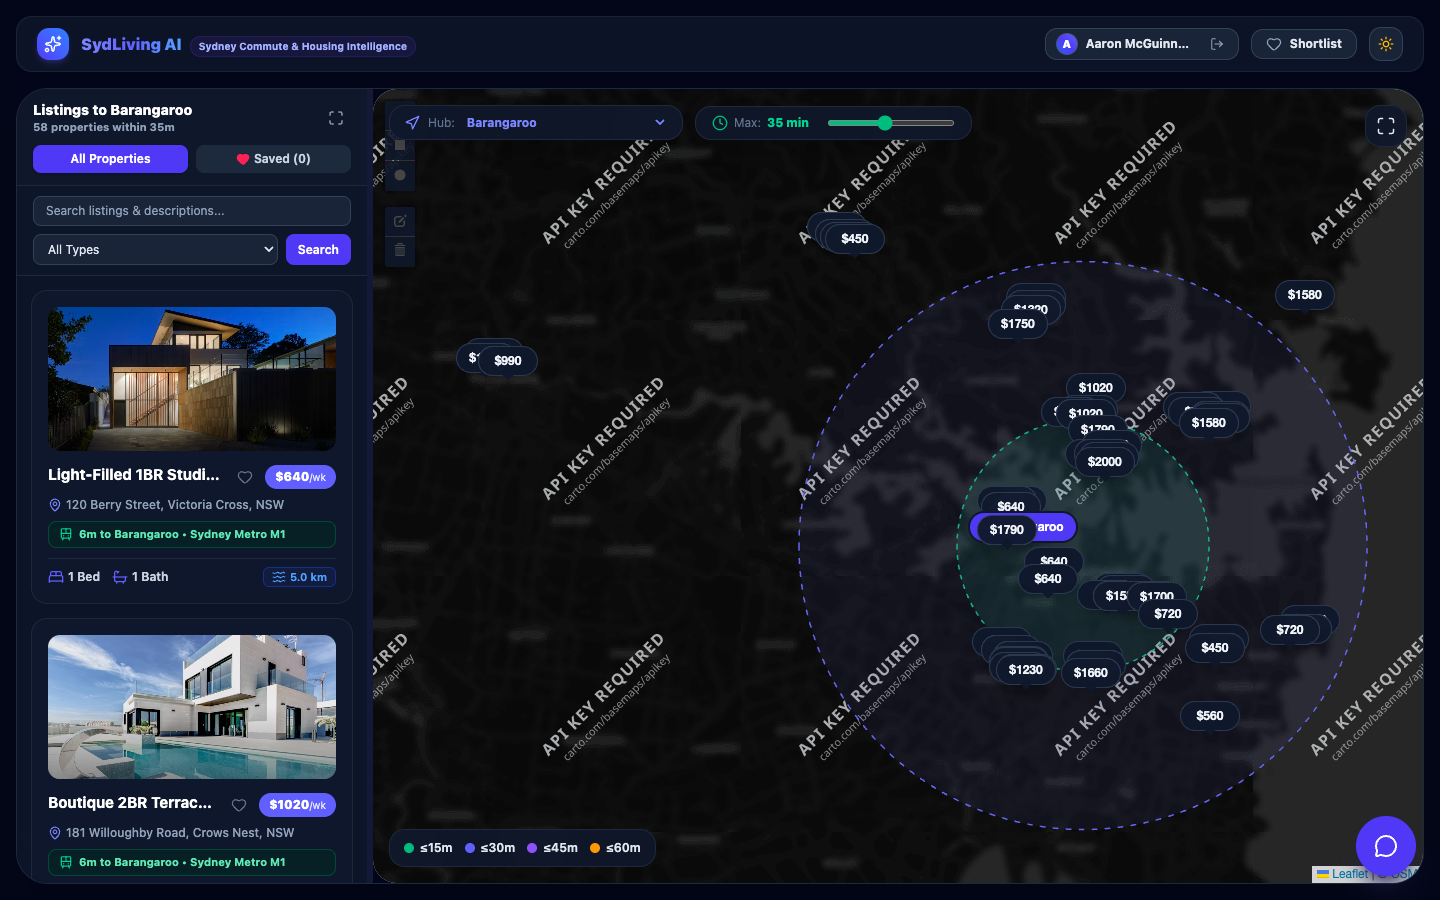
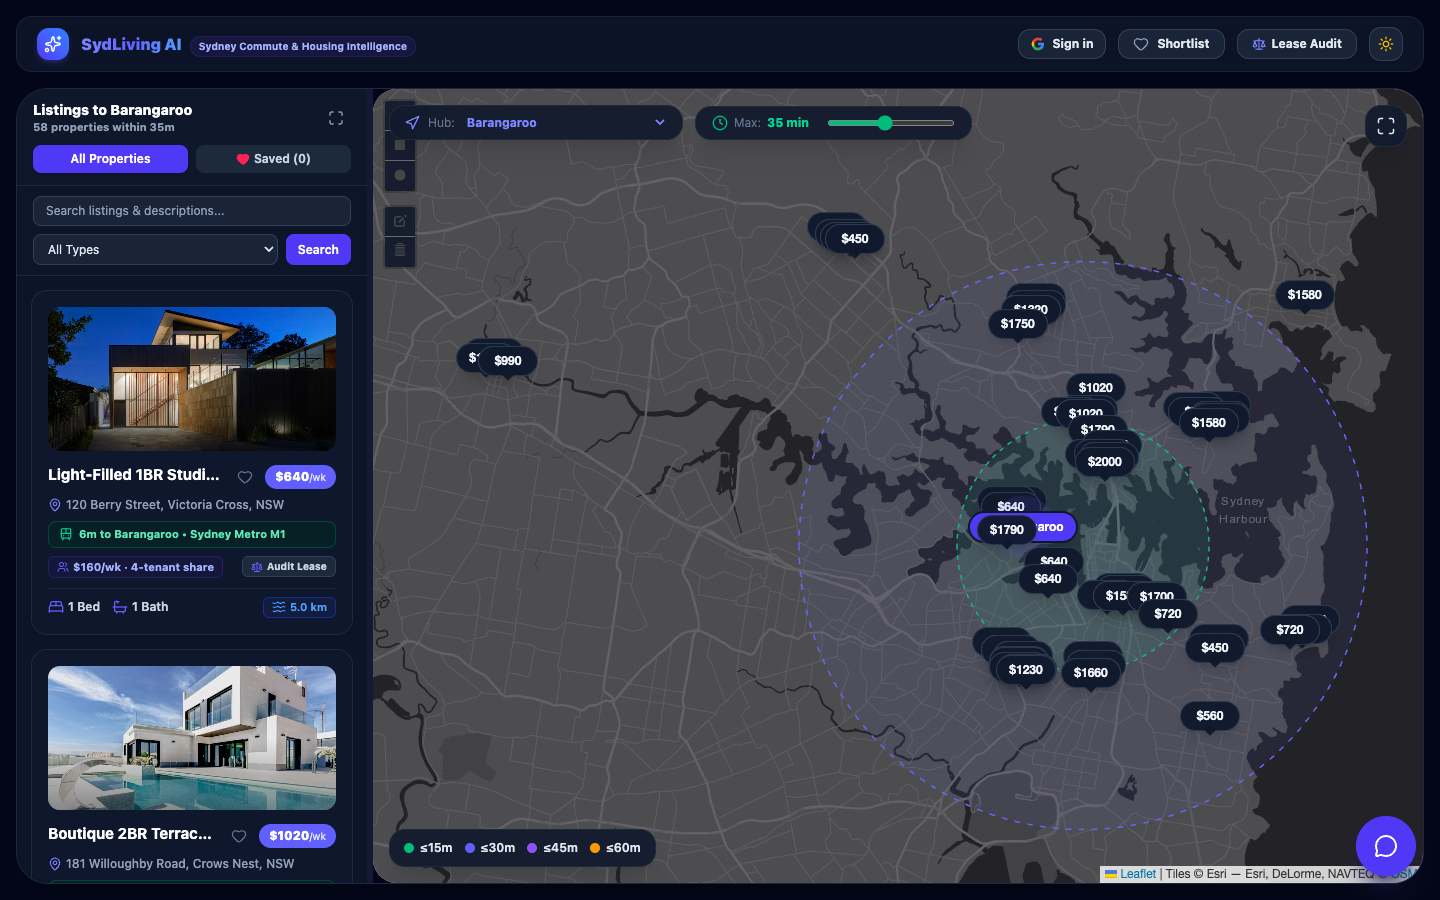
docs(readme): streamline to 3 key media assets, remove map watermark, and update model to Gemini 3.8 Flash

diff --git a/frontend/src/components/Map.tsx b/frontend/src/components/Map.tsx
@@ -285,12 +285,8 @@ export function Map({
 
         <TileLayer
           key={isDarkMode ? 'dark-tiles' : 'light-tiles'}
-          attribution='&copy; <a href="https://www.openstreetmap.org/copyright">OSM</a>'
-          url={
-            isDarkMode
-              ? "https://{s}.basemaps.cartocdn.com/rastertiles/dark_all/{z}/{x}/{y}{r}.png"
-              : "https://{s}.basemaps.cartocdn.com/rastertiles/voyager/{z}/{x}/{y}{r}.png"
-          }
+          attribution='&copy; <a href="https://www.openstreetmap.org/copyright">OpenStreetMap</a> contributors'
+          url="https://{s}.tile.openstreetmap.org/{z}/{x}/{y}.png"
         />
 
         {/* Dynamic Isochrone Reach Rings centered on active Hub */}

diff --git a/frontend/src/components/ChatPanel.tsx b/frontend/src/components/ChatPanel.tsx
@@ -68,7 +68,7 @@ export function ChatPanel({ messages, isThinking, onSendMessage, onSelectSession
             <Sparkles className="w-4 h-4 text-indigo-500" />
             <span>AI Relocation Assistant</span>
           </h2>
-          <p className="text-[11px] text-slate-500 dark:text-slate-400 font-medium">Powered by Gemini 3.7 Flash • Sydney Metro & TfNSW Transit Sync</p>
+          <p className="text-[11px] text-slate-500 dark:text-slate-400 font-medium">Powered by Gemini 3.8 Flash • Sydney Metro & TfNSW Transit Sync</p>
         </div>
         <div className="flex items-center gap-2">
           {isLoggedIn && (

diff --git a/frontend/src/index.css b/frontend/src/index.css
@@ -43,6 +43,11 @@
   background: rgba(15, 23, 42, 0.95) !important;
 }
 
+/* Watermark-free OSM Dark Map Filter */
+.dark .leaflet-tile-pane {
+  filter: brightness(0.6) invert(1) contrast(3) hue-rotate(200deg) saturate(0.3) brightness(0.7);
+}
+
 /* Leaflet Draw & Bar Controls Dark Mode */
 .dark .leaflet-bar a,
 .dark .leaflet-draw-toolbar a {

diff --git a/backend/agent.py b/backend/agent.py
@@ -132,7 +132,7 @@ Give concise, reassuring, and precise answers highlighting commute times, transi
             temperature=0.3,
         )
         
-        model_name = os.environ.get("GEMINI_MODEL", "gemini-3.6-flash")
+        model_name = os.environ.get("GEMINI_MODEL", "gemini-3.8-flash")
         chat = client.chats.create(model=model_name, config=config)
         
         if history:
@@ -142,7 +142,7 @@ Give concise, reassuring, and precise answers highlighting commute times, transi
             response = chat.send_message(message)
         except Exception as api_err:
             if "503" in str(api_err) or "UNAVAILABLE" in str(api_err):
-                model_name = "gemini-3.5-flash"
+                model_name = "gemini-3.6-flash"
                 chat = client.chats.create(model=model_name, config=config)
                 if history:
                     chat._history = contents[:-1]

diff --git a/README.md b/README.md
@@ -4,7 +4,7 @@
 [![React 19](https://img.shields.io/badge/Frontend-React_19-61DAFB?style=flat&logo=react&logoColor=black)](https://react.dev)
 [![TypeScript](https://img.shields.io/badge/Language-TypeScript-3178C6?style=flat&logo=typescript&logoColor=white)](https://www.typescriptlang.org)
 [![Tailwind CSS v4](https://img.shields.io/badge/Styling-Tailwind_CSS_v4-38B2AC?style=flat&logo=tailwind-css&logoColor=white)](https://tailwindcss.com)
-[![Gemini](https://img.shields.io/badge/AI_Agent-Gemini_3.6_Flash-4285F4?style=flat&logo=google-gemini&logoColor=white)](https://ai.google.dev)
+[![Gemini](https://img.shields.io/badge/AI_Agent-Gemini_3.8_Flash-4285F4?style=flat&logo=google-gemini&logoColor=white)](https://ai.google.dev)
 [![Leaflet](https://img.shields.io/badge/Maps-React_Leaflet-199900?style=flat&logo=leaflet&logoColor=white)](https://leafletjs.com)
 [![License: MIT](https://img.shields.io/badge/License-MIT-yellow.svg)](https://opensource.org/licenses/MIT)
 
@@ -14,7 +14,7 @@ Moving to Sydney often means balancing high rental costs against long, complex p
 
 ---
 
-![SydLiving AI Dark Mode Overview](docs/screenshots/dark_mode_commute_map.png)
+![SydLiving AI Overview](docs/screenshots/dark_mode_commute_map.png)
 
 ---
 
@@ -32,7 +32,7 @@ Filter properties by door-to-door transit commute travel time to major Sydney em
 ---
 
 ### 2. Shortlist & Side-by-Side Commute Comparison
-Compare up to 10 shortlisted properties side-by-side to make confident rental decisions.
+Compare shortlisted properties side-by-side to make confident rental decisions.
 
 - **Financial Clarity:** View weekly rent paired with estimated monthly housing expenses.
 - **Door-to-Door Commute Breakdown:** Compare travel minutes and transit lines to your selected workplace hub.
@@ -40,54 +40,16 @@ Compare up to 10 shortlisted properties side-by-side to make confident rental de
 - **Lifestyle Metrics:** Proximity to Sydney beaches (Bondi, Manly, Coogee, Bronte) and direct route transfers.
 - **Map Synchronization:** Jump directly from the comparison modal to highlight any property on the interactive map.
 
-![Shortlist Comparison Demo](docs/screenshots/shortlist_comparison_demo.gif)
-
-<br/>
-
 ![Shortlist Comparison Modal](docs/screenshots/shortlist_compare_modal.png)
 
 ---
 
 ### 3. Conversational AI Relocation Assistant
-Powered by Google Gemini with native function calling, the assistant consults on Sydney suburbs, rent affordability, and public transit connectivity.
+Powered by **Google Gemini 3.8 Flash** with native function calling, the assistant consults on Sydney suburbs, rent affordability, and public transit connectivity.
 
 - **Tool Execution:** Automatically calls backend tools (`query_properties`, `get_commute`, `filter_by_commute_reach`) to query listings and transit matrices.
 - **Live UI Synchronization:** AI recommendations immediately update map bounds, active hub filters, and listing results.
 - **Curated Prompt Suggestions:** One-tap chips for newcomer queries like *"Show rentals under 25 mins to Barangaroo"*, *"Metro-connected 2BR under $850/wk"*, and *"Compare commute from Manly vs Bondi Beach"*.
-
-![AI Relocation Assistant](docs/screenshots/ai_chat_relocation_agent.png)
-
----
-
-### 4. Property Detail Drawer & Route Breakdown
-Click any map pin or property card to inspect deep listing metadata:
-
-- **Verified Listing Details:** Photos, weekly pricing, bedroom/bathroom configuration, and beach proximity.
-- **Commute Itinerary:** Primary transit line, transfer counts, estimated weekly Opal spend, and direct route summaries.
-- **Spatial Drawing:** Built-in Leaflet Draw tools to sketch custom search polygons, circles, or bounding boxes.
-
-![Property Details View](docs/screenshots/property_details_view.png)
-
----
-
-### 5. Day & Night Theming
-Tailored for productivity at any hour, switch effortlessly between dark mode (Sydney Harbour by Night) and daylight mode.
-
-- **Dark Mode:** Deep slate palette (`#020617` / `#0f172a`) with high-contrast text and luminous route lines.
-- **Light Mode:** Crisp glassmorphic frosted glass panels with warm Voyager basemap tiles.
-
-![Theme Toggle Demo](docs/screenshots/theme_toggle_demo.gif)
-
-<table>
-  <tr>
-    <td width="50%"><b>Dark Mode (Night Palette)</b></td>
-    <td width="50%"><b>Light Mode (Daylight Palette)</b></td>
-  </tr>
-  <tr>
-    <td><img src="docs/screenshots/dark_mode_commute_map.png" alt="Dark Mode" width="100%"/></td>
-    <td><img src="docs/screenshots/light_mode_commute_map.png" alt="Light Mode" width="100%"/></td>
-  </tr>
-</table>
 
 ---
 
@@ -98,7 +60,7 @@ SydLiving AI is architected as a local-first, full-stack platform:
 - **Backend:** FastAPI (Python 3.11+), Pydantic v2
 - **Database:** SQLite (local database: `sydliving.db` with spatial coordinates & commute matrices)
 - **Frontend:** React 19, Vite, TypeScript, Tailwind CSS v4, Lucide Icons, React-Leaflet
-- **AI Agent:** Google Gemini (`gemini-3.6-flash`) with function calling and multi-turn chat sessions
+- **AI Agent:** Google Gemini (`gemini-3.8-flash`) with function calling and multi-turn chat sessions
 
 ```mermaid
 graph TD
@@ -108,7 +70,7 @@ graph TD
     UI <-->|REST API & JSON| API[FastAPI Backend]
     
     API <-->|Tool Execution & Search| DB[(SQLite Database: sydliving.db)]
-    API <-->|Native Function Calling| LLM((Gemini Flash Agent))
+    API <-->|Native Function Calling| LLM((Gemini 3.8 Flash Agent))
     
     DB -->|75+ Properties & Commute Matrices| API
     LLM -.->|Determines Tool & Filters| API
@@ -147,7 +109,7 @@ Create a `.env` file in `backend/`:
 ```env
 # Google Gemini API Key for conversational AI agent
 GEMINI_API_KEY=your_gemini_api_key_here
-GEMINI_MODEL=gemini-3.6-flash
+GEMINI_MODEL=gemini-3.8-flash
 
 # Optional: Domain Group API Key & Google Places API Key
 DOMAIN_API_KEY=
